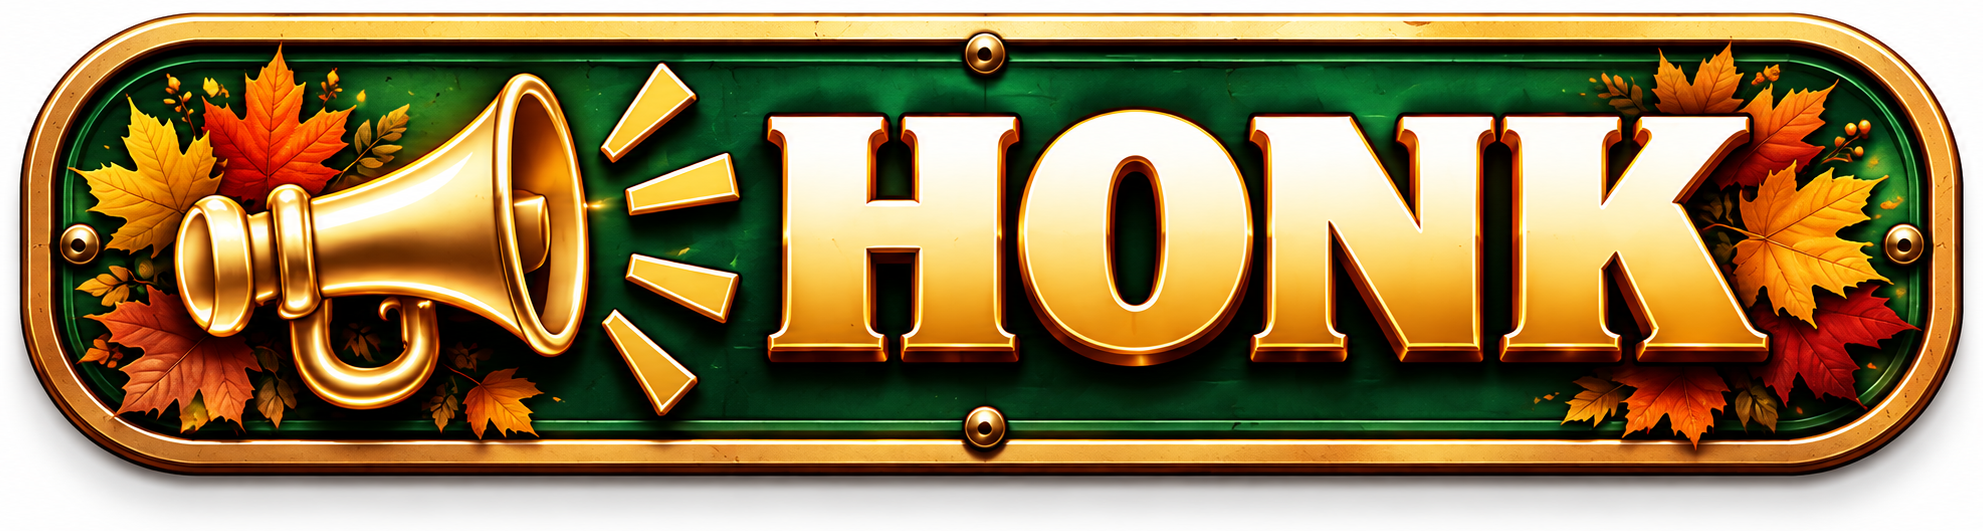
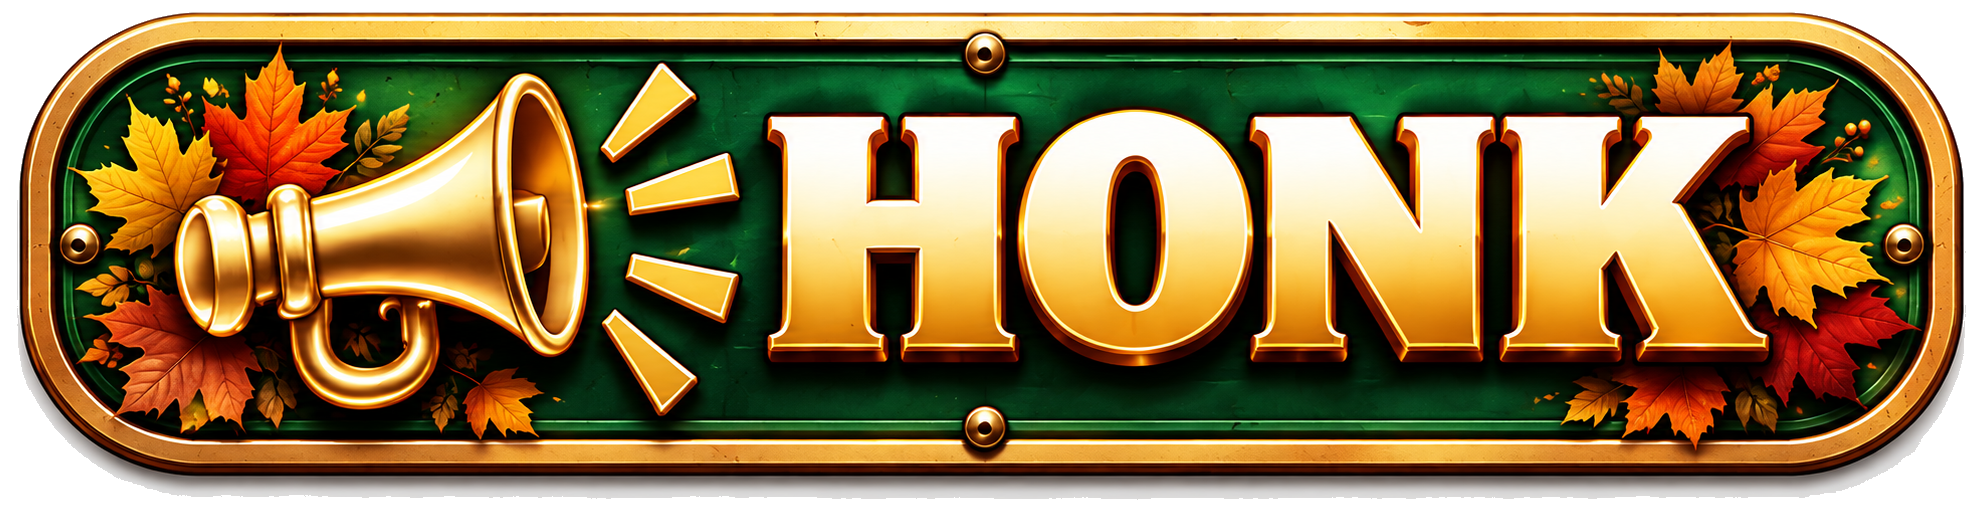
Route 4T v2.45 – Production Release

Changed region(s): [[0.0308, 0.7834, 0.9844, 0.9642], [0.0, 0.7533, 0.0308, 0.8136], [0.9844, 0.693, 1.0, 0.7232]]

diff --git a/styles.css b/styles.css
@@ -4318,3 +4318,39 @@ button {
 .primary {
   color-scheme:only light!important;
 }
+
+/* ======================================================================
+   ROUTE 4T v2.45 PRODUCTION — final HONK transparency + release locks
+   Built from approved v2.44. No layout/gameplay redesign.
+   ====================================================================== */
+
+/* The HONK PNG now has a true alpha background. Render it normally so the
+   transformed/animated layer never relies on blend-mode compositing. */
+#welcome .welcome-v241-honk,
+#welcome .welcome-v241-honk:hover,
+#welcome .welcome-v241-honk:focus,
+#welcome .welcome-v241-honk:active,
+#welcome .welcome-v241-honk.honked,
+#welcome .welcome-v241-honk[aria-busy="true"]{
+  background:none!important;
+  background-color:transparent!important;
+  border:0!important;
+  box-shadow:none!important;
+  -webkit-appearance:none!important;
+  appearance:none!important;
+  -webkit-tap-highlight-color:transparent!important;
+  isolation:isolate!important;
+}
+#welcome .welcome-v241-honk img{
+  background:transparent!important;
+  mix-blend-mode:normal!important;
+  opacity:1!important;
+  filter:drop-shadow(0 6px 9px rgba(67,33,10,.28))!important;
+  transform:translateZ(0);
+  backface-visibility:hidden;
+  -webkit-backface-visibility:hidden;
+}
+
+/* Keep the approved visible press/release animation. */
+#welcome .welcome-v241-honk:active{transform:translateY(3px) scale(.975)!important;}
+#welcome .welcome-v241-honk.honked{animation:r4tHonkPress .34s cubic-bezier(.2,.8,.25,1) both!important;}

diff --git a/app.js b/app.js
@@ -1,5 +1,5 @@
-const QA_SHOW_ALL_EXITS = true; // v2.39 FINAL QA: all EXIT 0–40 visible; date gating intentionally OFF for final rehearsal.
-const QA_DISABLE_SEQUENCE = false; // v2.39 FINAL QA: sequential progression ON. Production also keeps this false.
+const QA_SHOW_ALL_EXITS = false; // PRODUCTION: real date/unlock gating is ON.
+const QA_DISABLE_SEQUENCE = false; // PRODUCTION: sequential progression is ON.
 const MAX_ATTEMPTS = 3;
 const FINAL_EXIT = 40;
 const FORMSPREE_ENDPOINT = "https://formspree.io/f/mjykazrp";
@@ -1750,7 +1750,7 @@ window.addEventListener("online",()=>flushEmailQueue().catch(()=>{}));
 if(navigator.storage?.persist) navigator.storage.persist().catch(()=>{});
 
 if("serviceWorker" in navigator){
- window.addEventListener("load",()=>navigator.serviceWorker.register("./sw.js?v=244").catch(()=>{}));
+ window.addEventListener("load",()=>navigator.serviceWorker.register("./sw.js?v=245").catch(()=>{}));
 }
 
 function syncDesktopFrame(){

diff --git a/index.html b/index.html
@@ -7,7 +7,7 @@
 <meta name="color-scheme" content="light">
 <title>ROUTE 4T · MIKA'S JOURNEY</title>
 <link rel="manifest" href="manifest.webmanifest">
-<link rel="stylesheet" href="styles.css?v=244">
+<link rel="stylesheet" href="styles.css?v=245">
 </head>
 <body>
 <div class="stars" aria-hidden="true"></div>
@@ -70,7 +70,6 @@
   <div id="answerArea" class="answer-area">
     <input id="answerInput" type="text" placeholder="3 GUESSES — ENTER YOUR ANSWER" autocomplete="off">
     <button id="submitBtn" class="primary">UNLOCK THE MYSTERY</button>
-    <button id="hintBtn" class="secondary" hidden aria-hidden="true" tabindex="-1">SHOW HINT</button>
 
     <div id="statusPanel" class="status-panel">
       <p id="feedback" class="feedback"></p>
@@ -159,6 +158,6 @@
 </section>
 
 </main>
-<script src="app.js?v=244"></script>
+<script src="app.js?v=245"></script>
 </body>
 </html>

diff --git a/sw.js b/sw.js
@@ -1,6 +1,6 @@
-const CACHE='mikas-40-exits-v244';
+const CACHE='mikas-40-exits-v245-prod';
 const ASSETS=[
-  './','./index.html','./styles.css?v=244','./app.js?v=244','./manifest.webmanifest',
+  './','./index.html','./styles.css?v=245','./app.js?v=245','./manifest.webmanifest',
   './icon-192.png','./icon-512.png','./home-header-autumn.png','./fall-leaves-tile.png',
   './welcome-mika-fall.png','./welcome-title-autumn.png','./welcome-rules-autumn.png','./welcome-honk-only.png',
   './welcome-mika-new.jpg','./car-horn.mp3','./photos/Raj-13.jpg','./photos/Raj-14.jpg'

diff --git a/README.md b/README.md
@@ -1,12 +1,16 @@
-# Route 4T v2.43
+# Route 4T — Production Build v2.45
 
-Built from the tested v2.42 baseline. No new AI-rendered artwork.
+Production-style release prepared from the approved v2.44 baseline.
 
-- Preserves v2.42 scoreboard centering and mobile sticky behavior.
-- Welcome title uses the existing uncropped home-header artwork so the full bottom line is visible.
-- HONK keeps a visible press animation without using the browser disabled state (prevents Samsung white flash).
-- U.S. Route 4T shield keeps pure white fill / black 4T text and uses a corrected shield silhouette.
-- EXIT label and exit number are rebalanced to nearly equal visual size.
-- EXIT cards are flatter/more rectangular.
-- Removed the offset teal/gray card shadow so each EXIT is one clean green board.
-- Cache/service worker bumped to v243.
+- Real calendar/date gating ON
+- Sequential EXIT progression ON
+- Future EXITs hidden until unlock
+- EXIT 40 unlocks 2026-11-06 at 12:01 AM device-local time
+- SHOW HINT removed
+- Test/debug/reset/simulated-date UI not present
+- Mobile QR hidden; gift/video button remains primary
+- Approved sticky scoreboard and mobile layout preserved
+- Cross-browser/light-dark compatibility hardening preserved
+- HONK press animation preserved with transparent artwork background to eliminate white flash
+
+Known content placeholders retained by design: EXIT 25, 26, 36 and 40 currently have no video URL and display the existing coming-soon behavior until links are supplied.
